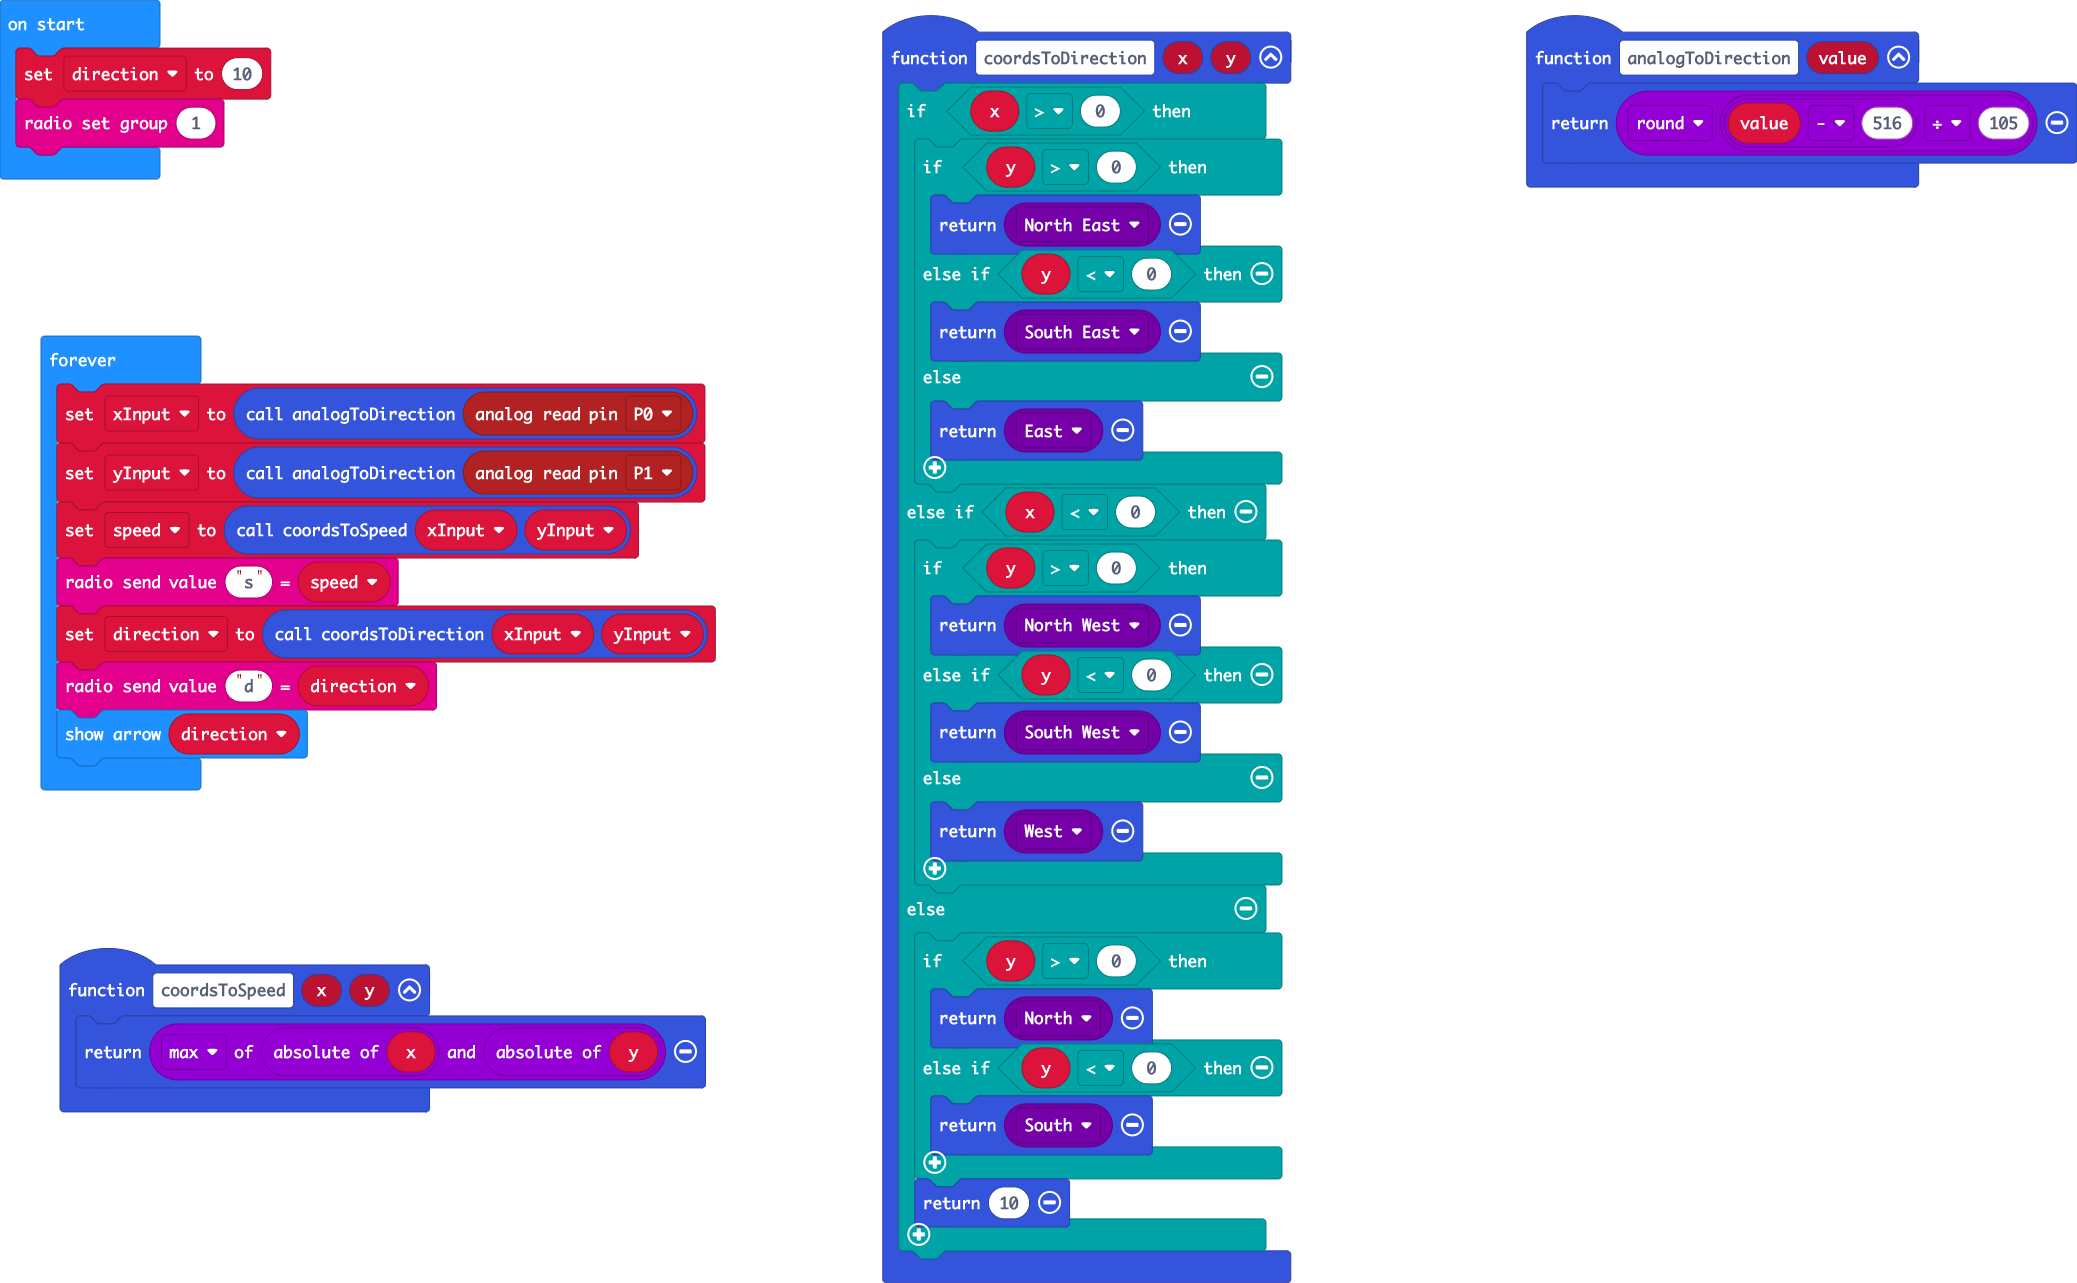
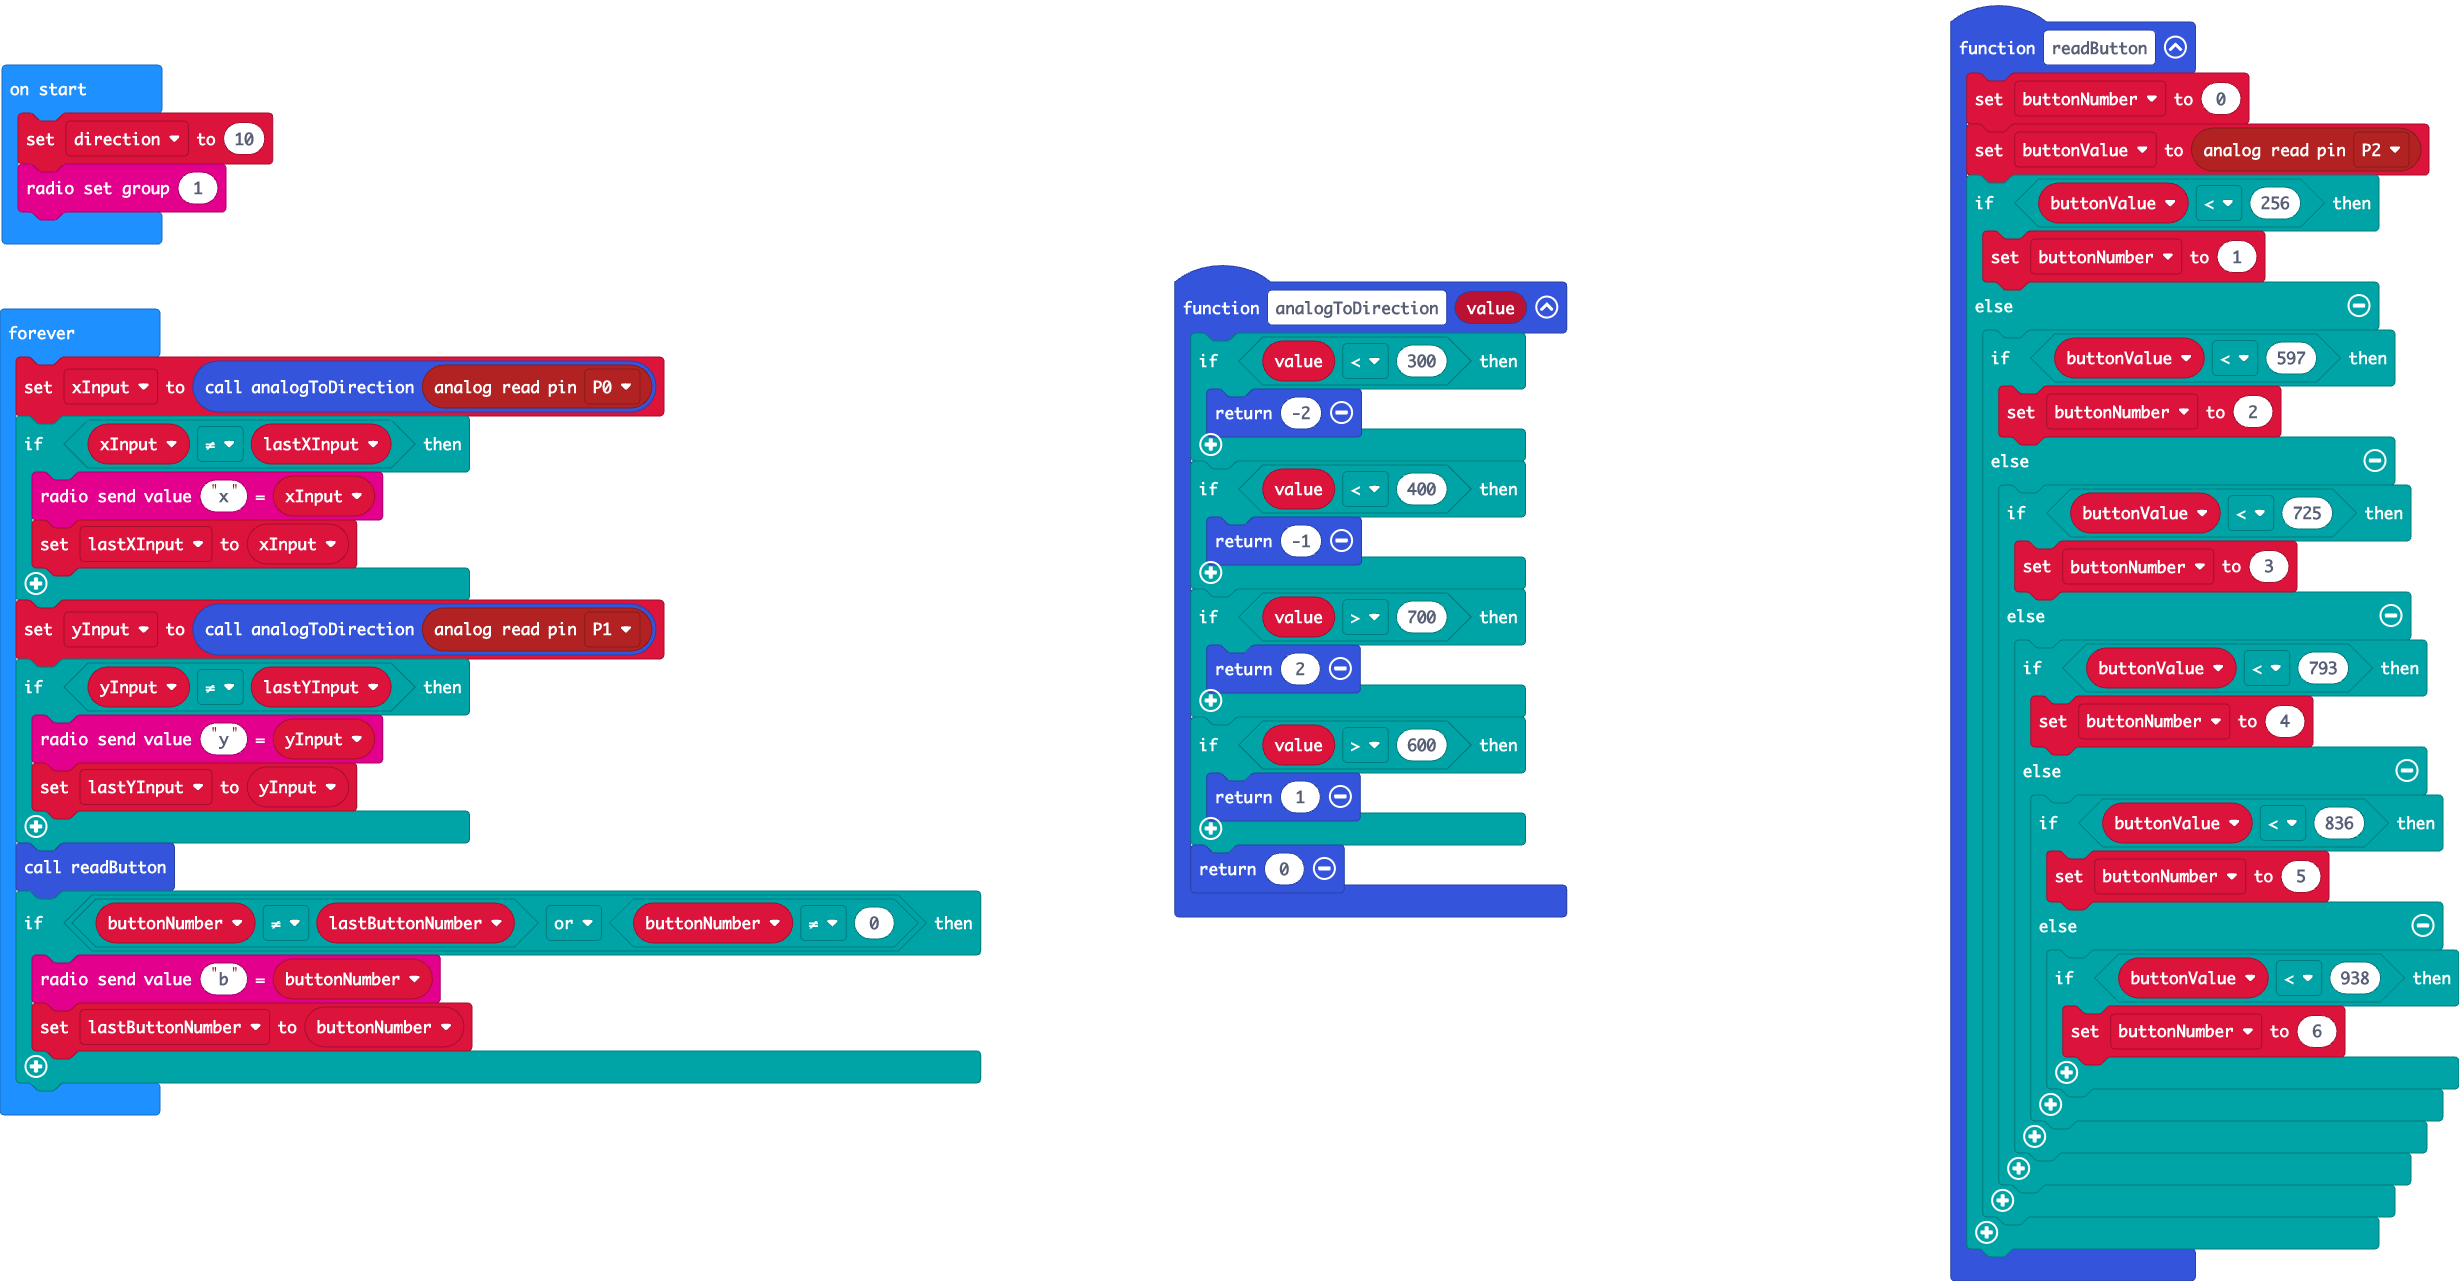
Update pxt.json, main.blocks, main.ts

diff --git a/main.ts b/main.ts
@@ -1,46 +1,68 @@
-function coordsToDirection (x: number, y: number) {
-    if (x > 0) {
-        if (y > 0) {
-            return ArrowNames.NorthEast
-        } else if (y < 0) {
-            return ArrowNames.SouthEast
-        } else {
-            return ArrowNames.East
-        }
-    } else if (x < 0) {
-        if (y > 0) {
-            return ArrowNames.NorthWest
-        } else if (y < 0) {
-            return ArrowNames.SouthWest
-        } else {
-            return ArrowNames.West
-        }
+function readButton () {
+    buttonNumber = 0
+    buttonValue = pins.analogReadPin(AnalogPin.P2)
+    if (buttonValue < 256) {
+        buttonNumber = 1
     } else {
-        if (y > 0) {
-            return ArrowNames.North
-        } else if (y < 0) {
-            return ArrowNames.South
+        if (buttonValue < 597) {
+            buttonNumber = 2
+        } else {
+            if (buttonValue < 725) {
+                buttonNumber = 3
+            } else {
+                if (buttonValue < 793) {
+                    buttonNumber = 4
+                } else {
+                    if (buttonValue < 836) {
+                        buttonNumber = 5
+                    } else {
+                        if (buttonValue < 938) {
+                            buttonNumber = 6
+                        }
+                    }
+                }
+            }
         }
-        return 10
     }
 }
 function analogToDirection (value: number) {
-    return Math.round((value - 516) / 105)
+    if (value < 300) {
+        return -2
+    }
+    if (value < 400) {
+        return -1
+    }
+    if (value > 700) {
+        return 2
+    }
+    if (value > 600) {
+        return 1
+    }
+    return 0
 }
-function coordsToSpeed (x: number, y: number) {
-    return Math.max(Math.abs(x), Math.abs(y))
-}
-let speed = 0
+let lastButtonNumber = 0
+let lastYInput = 0
 let yInput = 0
+let lastXInput = 0
 let xInput = 0
+let buttonValue = 0
+let buttonNumber = 0
 let direction = 10
 radio.setGroup(1)
 basic.forever(function () {
     xInput = analogToDirection(pins.analogReadPin(AnalogPin.P0))
+    if (xInput != lastXInput) {
+        radio.sendValue("x", xInput)
+        lastXInput = xInput
+    }
     yInput = analogToDirection(pins.analogReadPin(AnalogPin.P1))
-    speed = coordsToSpeed(xInput, yInput)
-    radio.sendValue("s", speed)
-    direction = coordsToDirection(xInput, yInput)
-    radio.sendValue("d", direction)
-    basic.showArrow(direction)
+    if (yInput != lastYInput) {
+        radio.sendValue("y", yInput)
+        lastYInput = yInput
+    }
+    readButton()
+    if (buttonNumber != lastButtonNumber || buttonNumber != 0) {
+        radio.sendValue("b", buttonNumber)
+        lastButtonNumber = buttonNumber
+    }
 })
